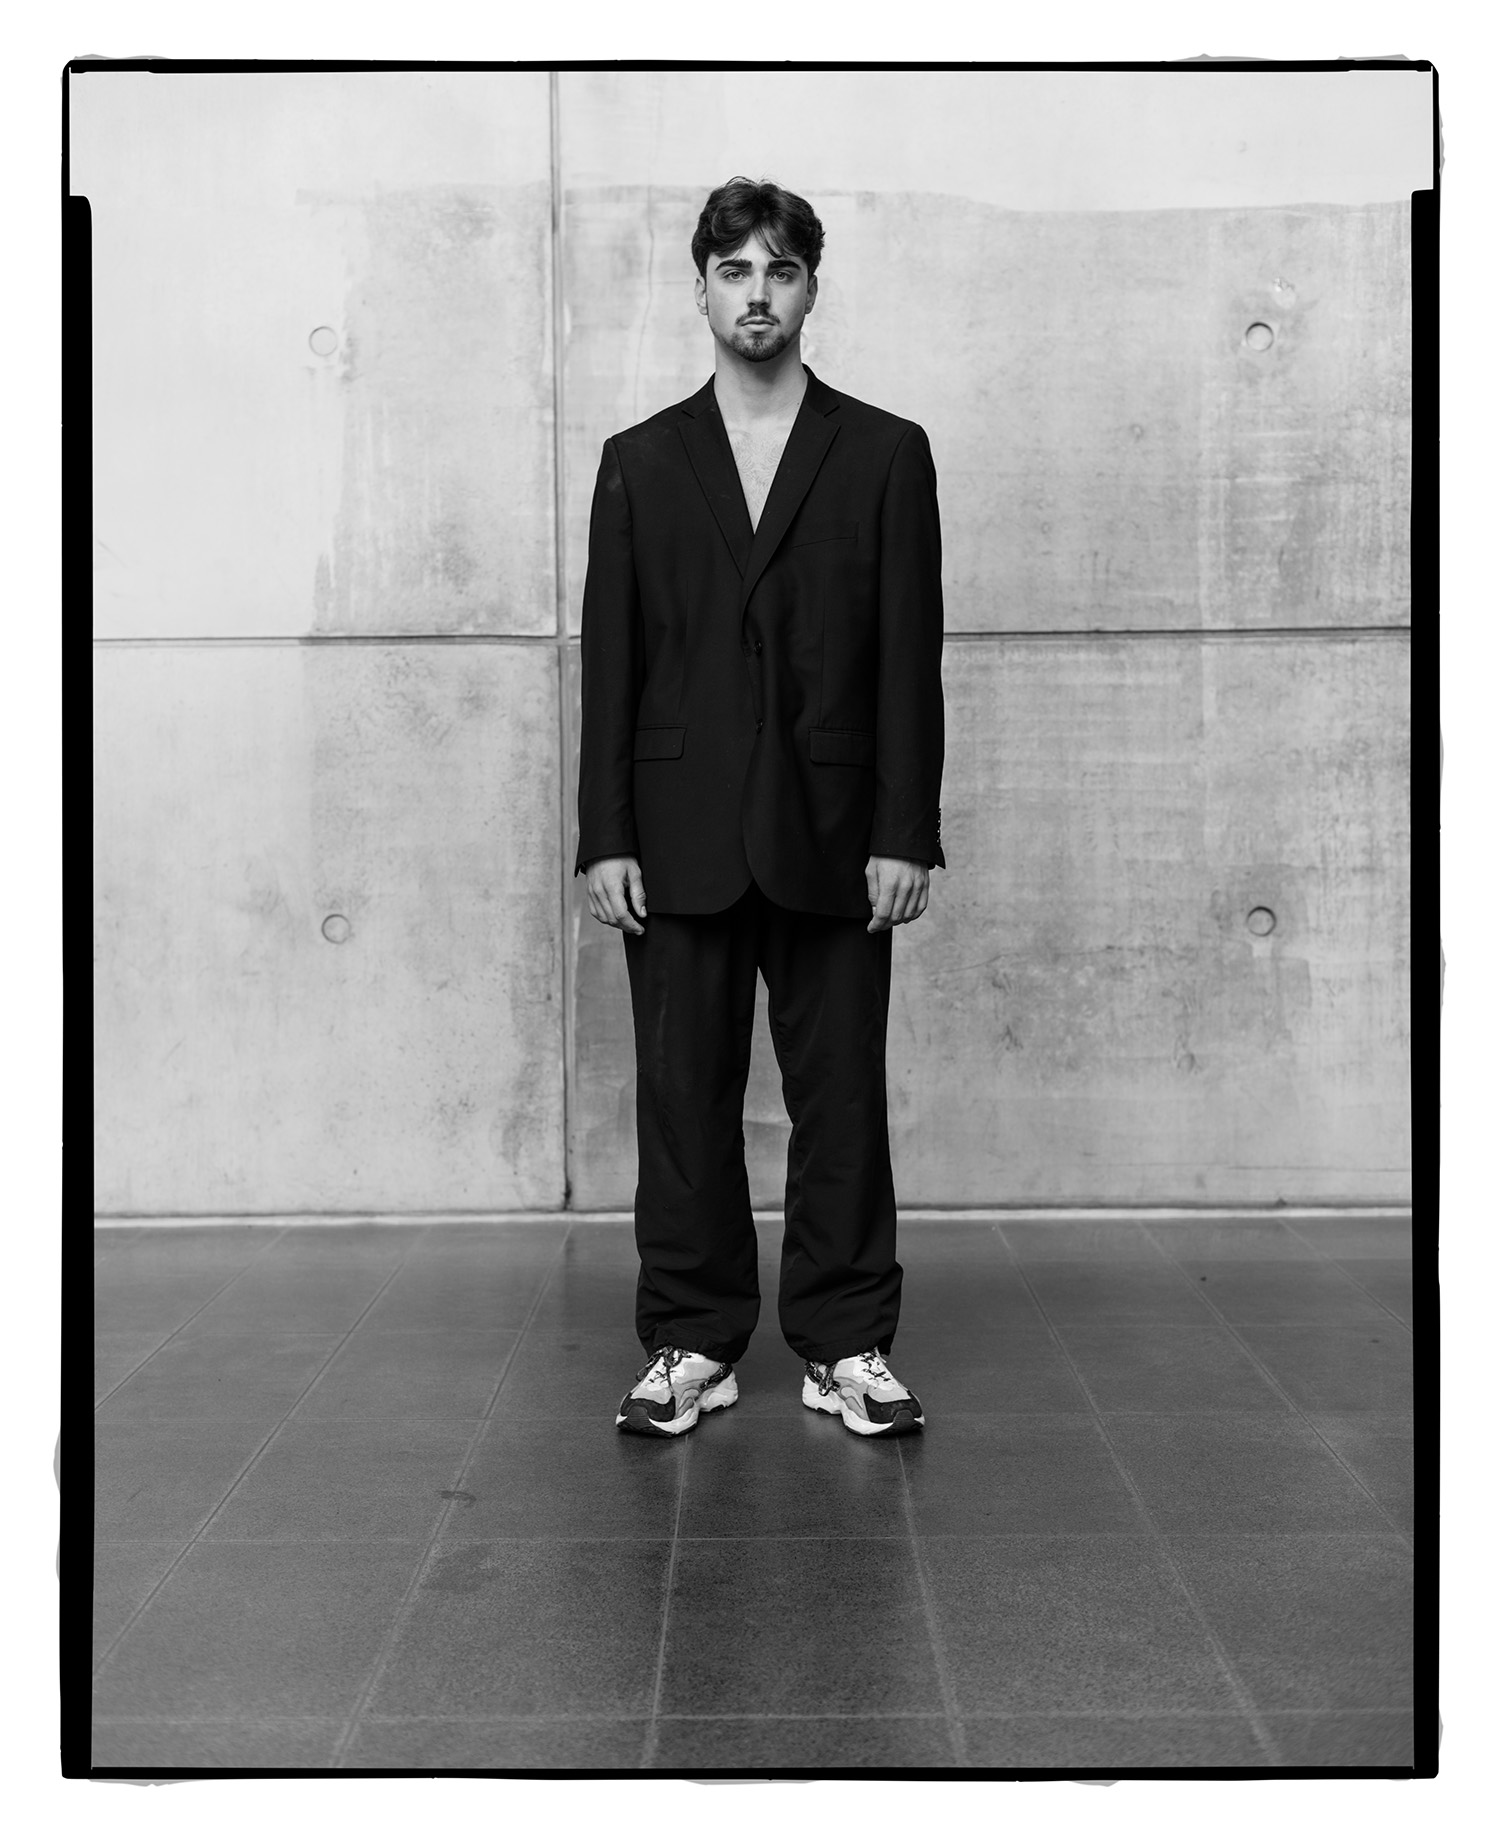
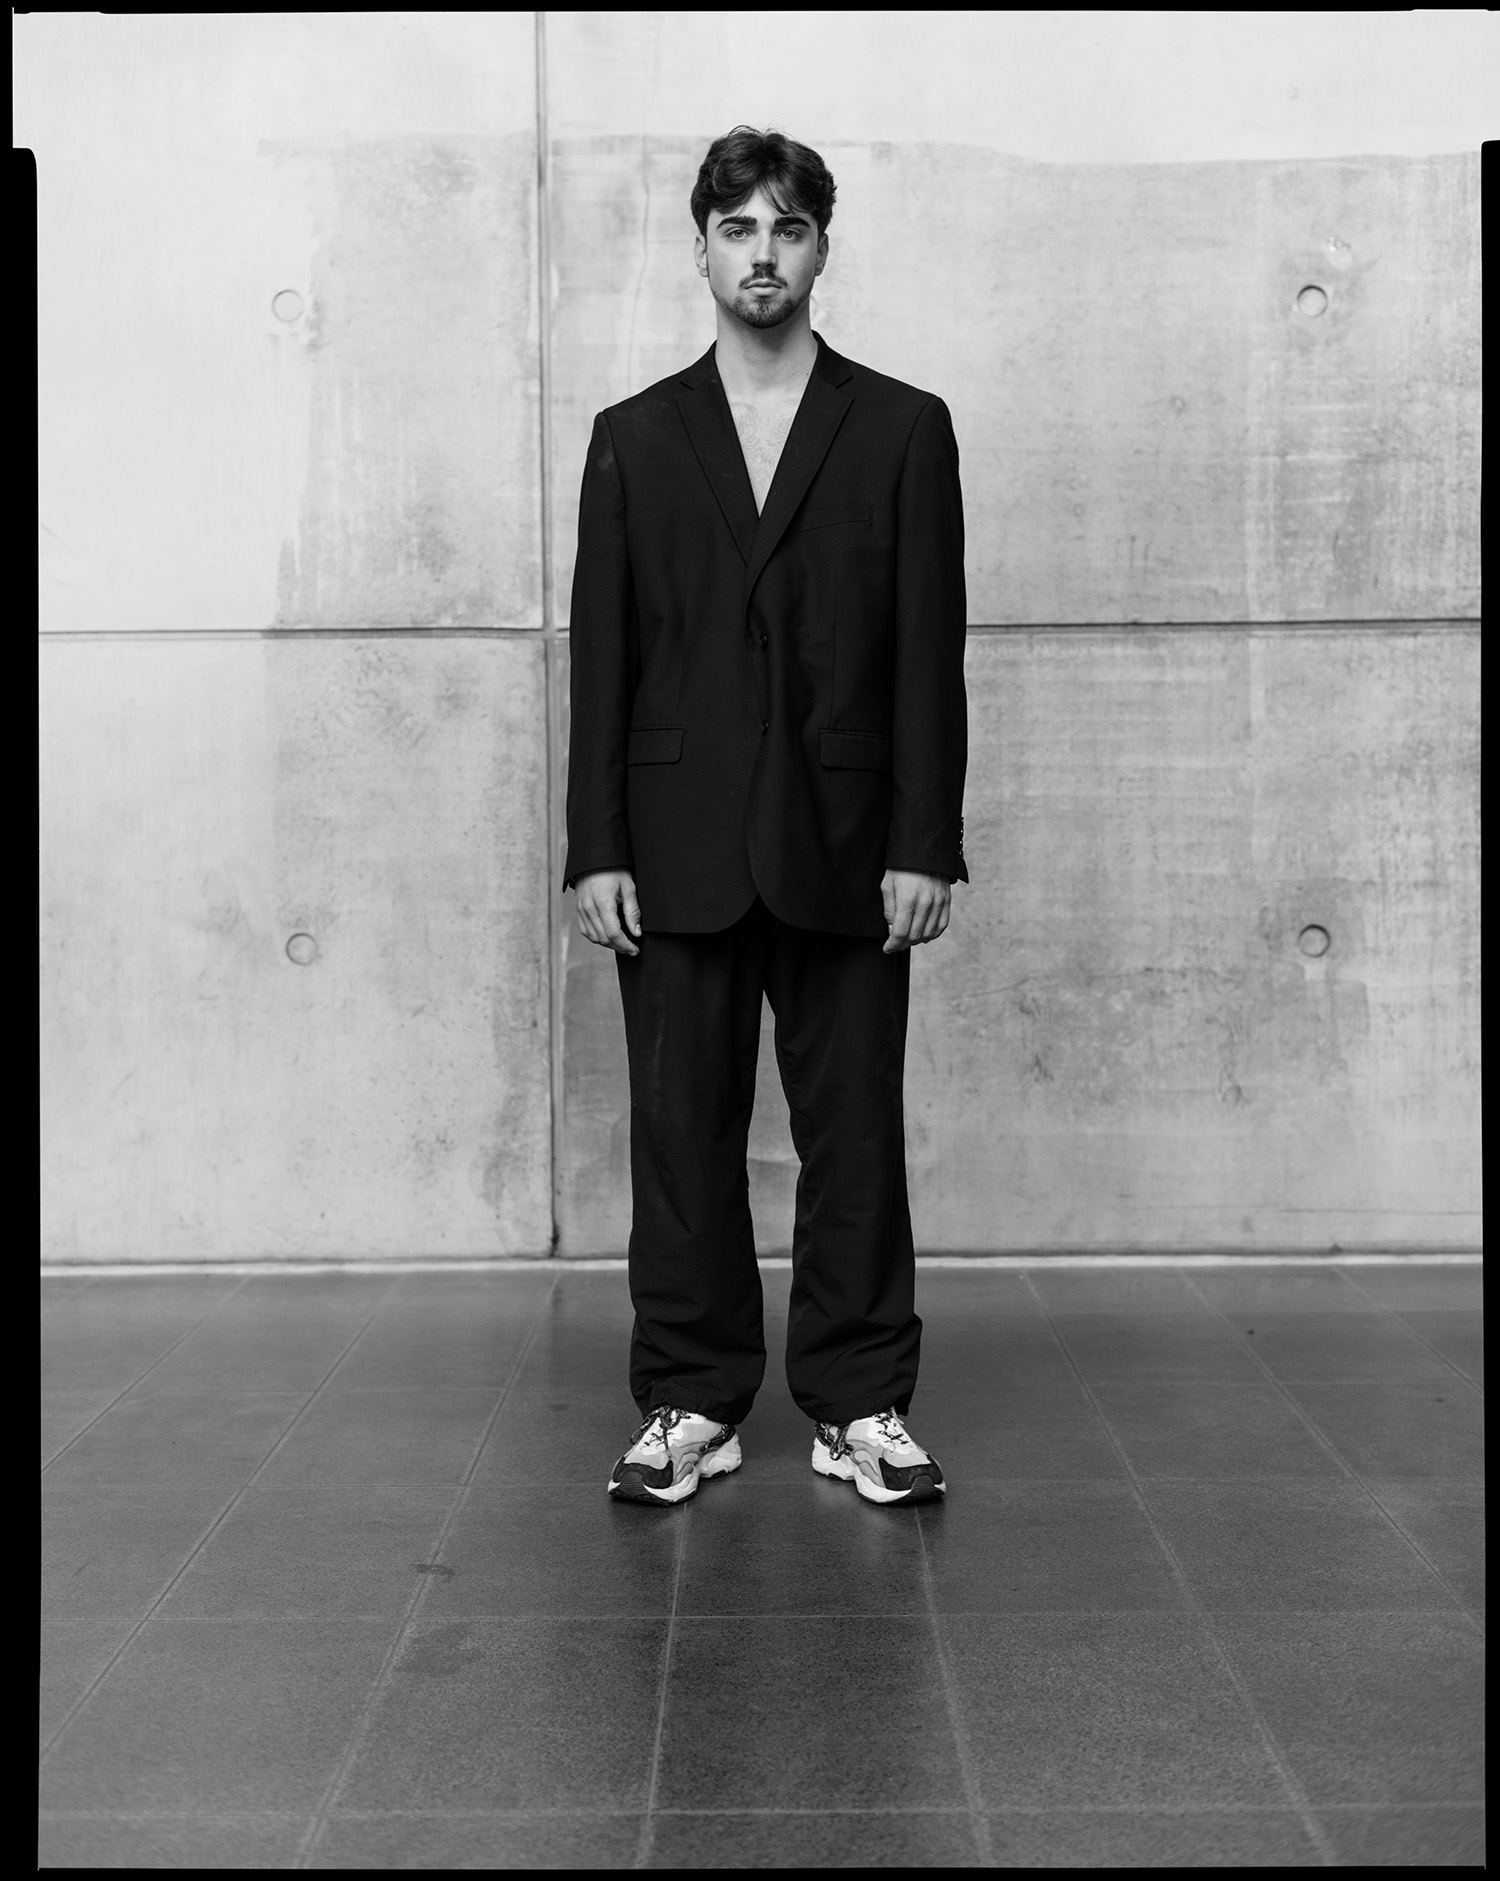
New example files.

diff --git a/README.md b/README.md
@@ -49,20 +49,35 @@ If you open the script **PoserFrames.jsx** in a text editor, you may want to exp
 Examples
 --------
 
+![35mm](/examples/35mm_fancy.jpg) <br>
+*A 3:2 frame in fancy mode.*
+
+![645](/examples/645_fancy.jpg) <br>
+*A 4:3 frame in fancy mode.*
+
+![4x5](/examples/45_fancy.jpg) <br>
+*A 4:5 frame in fancy mode.*
+
+![67](/examples/67_fancy.jpg) <br>
+*A 6:7 frame in fancy mode.*
+
+![Square](/examples/square_fancy.jpg) <br>
+*A 1:1 frame in fancy mode.*
+
 ![35mm](/examples/35mm.jpg) <br>
-*A 3:2 frame.*
+*A 3:2 frame in conservative mode.*
 
 ![645](/examples/645.jpg) <br>
-*A 4:3 frame.*
+*A 4:3 frame in conservative mode.*
 
 ![4x5](/examples/45.jpg) <br>
-*A 4:5 frame.*
+*A 4:5 frame in conservative mode.*
 
 ![67](/examples/67.jpg) <br>
-*A 6:7 frame.*
+*A 6:7 frame in conservative mode.*
 
 ![Square](/examples/square.jpg) <br>
-*A 1:1 frame.*
+*A 1:1 frame in conservative mode.*
 
 
 Troubleshooting and general tips
